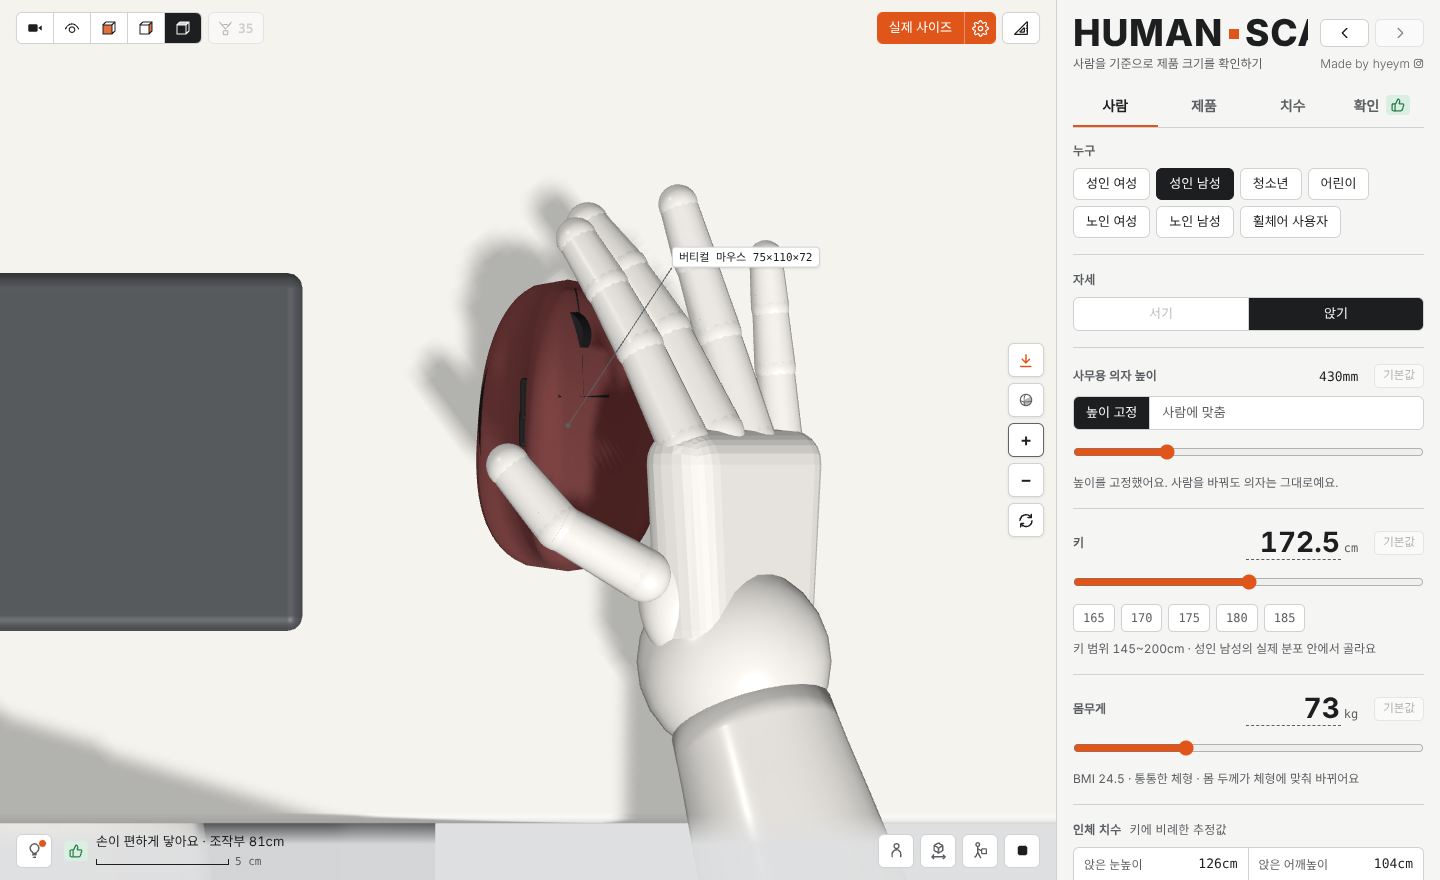
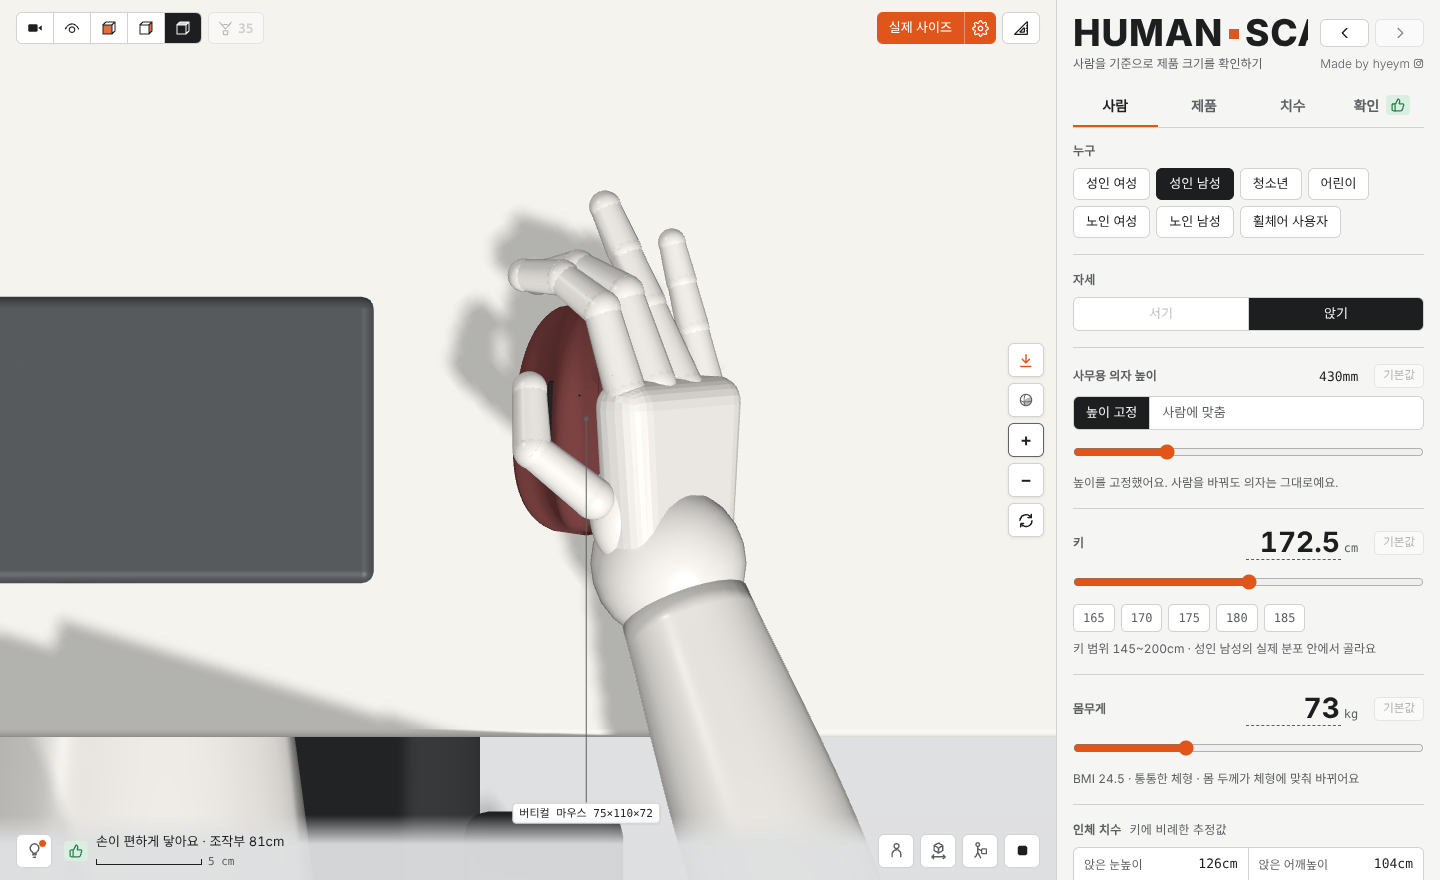
Vertical mouse: the hand fitted over the ridge, rolled partway right, the wrist on the desk
Claude-Session: https://claude.ai/code/session_01HYNQ1d4u3j94KdSMHWKsoz

Changed region(s): [[0.0, 0.2148, 0.7188, 0.9818]]

diff --git a/index.html b/index.html
@@ -4178,7 +4178,7 @@ function vMouseGeo(group, W, D, H, own, dark) {
   for (let k = 0; k < 8; k++) { const t0 = -0.93 + k * 0.09, t1 = t0 + 0.09; if (t1 < tw - 0.06 || t0 > tw + 0.06) seam(sp(0.3, t0), sp(0.3, t1)); } // between the two buttons (broken by the wheel)
   for (let k = 0; k < 6; k++) seam(sp(k / 6 * 0.62, -0.2), sp((k + 1) / 6 * 0.62, -0.2)); // the buttons' back edge, across the face
   for (const [t, l] of [[-0.18, 0.016], [0.02, 0.014]]) { const c = at(-0.235, 0.8, t); own(new RoundedBoxGeometry(0.004, 0.008, l, 2, 0.0015).rotateZ(0.2).translate(c.x, c.y, c.z), dark); } // two thumb buttons high on the left, by the ridge
-  group.userData.vgrip = { n: nrm(-0.4), index: onFace(-0.05, -0.72), thumb: at(-0.31, 0.62, -0.08) }; // the hand's marks: the index on the upper button toward the front, the thumb in the hollow on the left
+  group.userData.vgrip = { n: nrm(-0.4), index: onFace(-0.05, -0.72), knuck: onFace(0.25, -0.3), left: new V3(-1, 0, 0), thumb: at(-0.27, 0.8, -0.32) }; // the hand's marks: the index on the upper button toward the front, the thumb in the hollow on the left
   part();
 }
 function mouseGeo(group, W, D, H) {
@@ -5875,11 +5875,14 @@ function mouseGrip(HD) {
   for (const [y, z] of [[0.2, -0.3], [0.3, -0.3], [0.4, -0.3], [0.3, -0.2], [0.3, -0.4]]) palm.push(new V3(0.66 * HD.palmT, y * HD.palmLen, z * HD.palmW)); // the pad at the thumb's root stands proud of the palm
   let F, W, at, best = null;
   const vg = holder.userData.vgrip, toHd = (v) => human.worldToLocal(holder.localToWorld(v.clone())).sub(human.worldToLocal(holder.localToWorld(new V3()))).normalize();
-  if (vg) { // a vertical mouse, held in a handshake: the palm against its grip face (turned with it, a little less than it leans: over it more than beside it), the index finger on the upper button
-    const pn = toHd(vg.n).negate().multiplyScalar(0.85).add(new V3(0, -0.15, 0)).normalize(), y = fwd.clone().addScaledVector(pn, -fwd.dot(pn)).normalize(), g0 = HD.fingers[0]; F = handFrame(pn, y); at = (W) => (x, y2, z) => sdfW(W.clone().add(inHand(F, new V3(x, y2, z))));
-    W = human.worldToLocal(holder.localToWorld(vg.index.clone())) /* the index fingertip about on its mark */.addScaledVector(F.y, -(g0.y + 0.5 * (g0.L[0] + g0.L[1] + g0.L[2]))).addScaledVector(F.z, -g0.z).addScaledVector(F.x, -0.06);
-    W.y = deskY + jointSizes(limbProfiles(S.A, PERSONAS[S.persona])).wr + 0.002; // the wrist down on the desk, the hand turned up on its side against the face
-    for (let k = 0; k < 60; k++) { const m = palm.reduce((m, q) => Math.min(m, at(W)(q.x, q.y, q.z)), 1e9); if (Math.abs(m - 0.0015) < 0.0004) break; W.addScaledVector(F.x, Math.max(-0.01, Math.min(0.01, m - 0.0015))); W.y = Math.max(W.y, deskY + jointSizes(limbProfiles(S.A, PERSONAS[S.persona])).wr + 0.002); }
+  if (vg) { /* a vertical mouse, the hand fitted over it: its ridge in the web between the thumb and index finger, the hand rolled partway to the
+     right (the palm over the ridge and down its grip face), the wrist down on the desk behind it */
+    const wy = deskY + jointSizes(limbProfiles(S.A, PERSONAS[S.persona])).wr + 0.002, g0 = HD.fingers[0], lf = toHd(vg.left), nO = toHd(vg.n), ks = human.worldToLocal(holder.localToWorld(vg.knuck.clone())), roll = deg(50);
+    const kn = new V3(0.5 * HD.palmT, HD.palmLen, g0.z), fit = (h) => { const K = ks.clone().addScaledVector(nO, h); let W1, F1, p0 = -0.3, p1 = 1.2; // pointing straight ahead, pitched up from the wrist on the desk to the knuckles on its ridge
+      for (let k = 0; k < 24; k++) { const p = (p0 + p1) / 2, yd = fwd.clone().multiplyScalar(Math.cos(p)).addScaledVector(UP, Math.sin(p)), dn = new V3(0, -1, 0).addScaledVector(yd, yd.y).normalize(), l = lf.clone().addScaledVector(yd, -lf.dot(yd)).normalize(); F1 = handFrame(dn.multiplyScalar(Math.cos(roll)).addScaledVector(l, Math.sin(roll)).normalize(), yd); W1 = K.clone().sub(inHand(F1, kn)); if (W1.y > wy) p0 = p; else p1 = p; }
+      const a = (W) => (x, y, z) => sdfW(W.clone().add(inHand(F1, new V3(x, y, z)))); return { F: F1, W: W1, at: a, m: palm.reduce((m, q) => { const w = W1.clone().add(inHand(F1, q)); return w.y < deskY + 0.006 ? m : Math.min(m, a(W1)(q.x, q.y, q.z)); }, 1e9) }; }; // the heel of the hand may lie on the desk
+    let lo = -0.01, hi = 0.05, r = fit(hi); for (let k = 0; k < 16; k++) { const h = (lo + hi) / 2, c = fit(h); if (c.m < 0.0015) lo = h; else { hi = h; r = c; } } // as close down on it as the palm comes without going in
+    F = r.F; W = r.W; at = r.at;
   } else for (let tl = -0.25; tl <= 0.401; tl += 0.05) { // the palm tilted as it best lies along the shell: settled down onto it, then the tilt with it closest all over
     const F1 = handFrame(new V3(0, -1, 0), fwd.clone().addScaledVector(UP, tl)), at1 = (W) => (x, y, z) => sdfW(W.clone().add(inHand(F1, new V3(x, y, z))));
     const W1 = ctr.clone().addScaledVector(fwd, -0.06 * len).addScaledVector(F1.y, -HD.palmLen).addScaledVector(F1.z, -(HD.fingers[0].z + HD.fingers[1].z) / 2).add(new V3(0, 0.08, 0)); // the knuckles a little ahead of its middle, the wheel between the index and middle fingers
